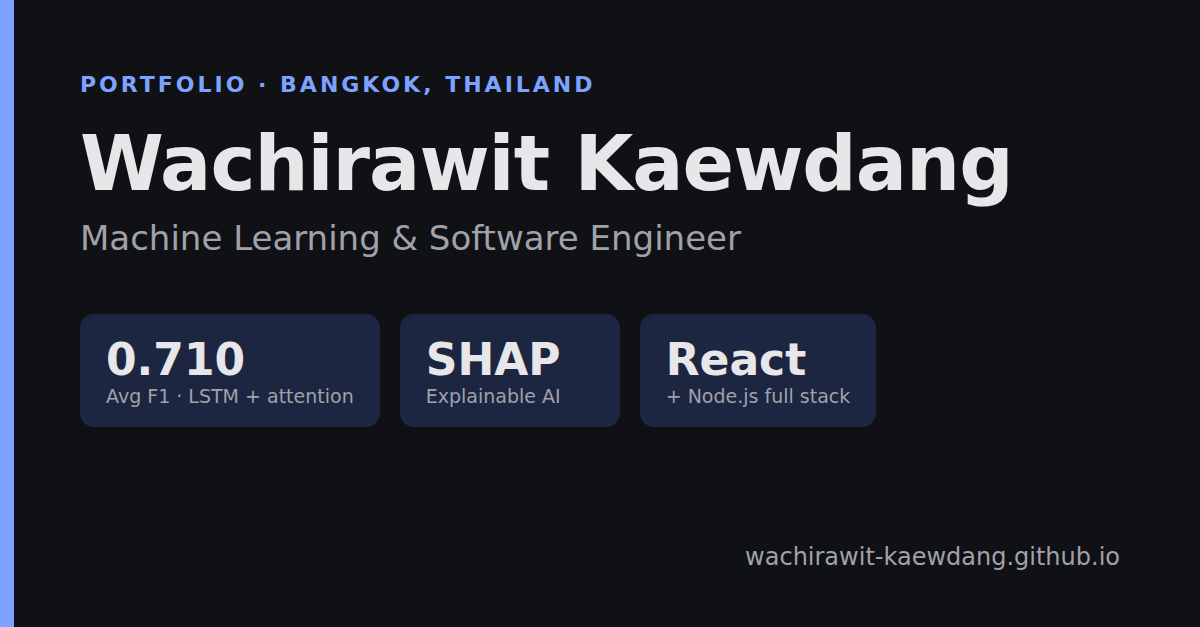
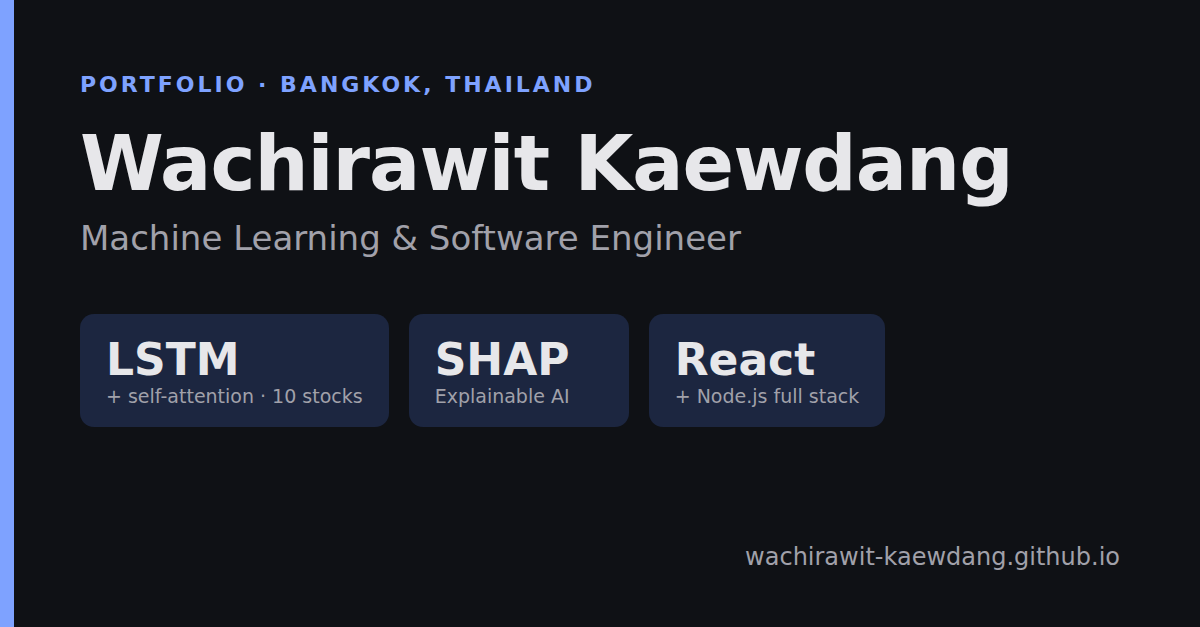
Add final 10-stock notebook and figures

Changed region(s): [[0.0925, 0.4848, 0.74, 0.697]]

diff --git a/src/ProjectCS403.jsx b/src/ProjectCS403.jsx
@@ -1,0 +1,139 @@
+// Case study page for the CS403 senior project, shown at #/cs403.
+const img = (name) => `${import.meta.env.BASE_URL}cs403/${name}.webp`;
+
+// Tuned-threshold results next to what "always predict up" would score.
+// For an always-up model, accuracy = share of up days and F1 = 2p / (1 + p).
+const baselineRows = [
+  { stock: 'JPM', acc: 0.608, f1: 0.756 },
+  { stock: 'UNH', acc: 0.600, f1: 0.750 },
+  { stock: 'GS', acc: 0.567, f1: 0.724 },
+  { stock: 'XOM', acc: 0.535, f1: 0.697 },
+  { stock: 'AMZN', acc: 0.494, f1: 0.661 },
+];
+const alwaysUpF1 = (p) => ((2 * p) / (1 + p)).toFixed(3);
+
+function Figure({ name, caption }) {
+  return (
+    <figure className="figure">
+      <a href={img(name)} target="_blank" rel="noreferrer">
+        <img src={img(name)} alt={caption} />
+      </a>
+      <figcaption>{caption}</figcaption>
+    </figure>
+  );
+}
+
+export default function ProjectCS403() {
+  return (
+    <main className="container case">
+      <a href="#projects" className="back">← Back to portfolio</a>
+
+      <p className="eyebrow">Senior project (CS403) · Thammasat University · 2-person team</p>
+      <h1>Stock Direction Prediction with Explainable AI</h1>
+      <p className="lead">
+        Can SHAP tell us something about a stock-prediction model that plain correlation can't? We
+        trained an LSTM with self-attention on 10 US stocks, explained it with SHAP, and compared
+        those explanations with Pearson correlation. We also checked honestly whether the model
+        beat a naive baseline.
+      </p>
+      <div className="actions">
+        <a className="btn primary" href="https://github.com/wachirawit-kaewdang/Project-CS403" target="_blank" rel="noreferrer">
+          Code on GitHub
+        </a>
+      </div>
+
+      <section className="case-section">
+        <h2>Setup</h2>
+        <dl className="facts">
+          <div><dt>Data</dt><dd>10 US stocks, 2 per sector (Tech, Healthcare, Energy, Finance, Consumer), Jan 2020 – Apr 2025</dd></div>
+          <div><dt>Features</dt><dd>27 daily features: returns, volatility, moving averages, RSI/MACD/Stochastic, volume/OBV, S&amp;P 500 context, bond yield</dd></div>
+          <div><dt>Target</dt><dd>Direction of the 3-day forward return (up / down), 80/20 time-ordered split</dd></div>
+          <div><dt>Model</dt><dd>LSTM (3 layers, hidden 128) + self-attention over a 60-day window, Focal Loss with class weights</dd></div>
+          <div><dt>Compared with</dt><dd>Random Forest, Logistic Regression, a soft-voting ensemble, and a version with VIX (market fear) features</dd></div>
+        </dl>
+      </section>
+
+      <section className="case-section">
+        <h2>Finding 1: SHAP and correlation disagree a lot</h2>
+        <p>
+          For every stock we ranked the 27 features twice: by absolute Pearson correlation with the
+          target, and by mean |SHAP| on the trained LSTM. The two rankings disagreed by roughly 5 to 12
+          positions per feature on average. Volume change, EMA26 and Volume/MA ratio moved the most.
+          Correlation only sees straight-line relationships with the target. SHAP shows what the
+          model actually uses, including non-linear effects.
+        </p>
+        <Figure name="rank_disagreement_summary" caption="Rank difference between correlation and SHAP for each feature and stock (click to enlarge)." />
+      </section>
+
+      <section className="case-section">
+        <h2>Finding 2: Bond yield matters to the model, but correlation misses it</h2>
+        <p>
+          Bond yield was in the model's SHAP top 5 for 6 of the 10 stocks, and was the #1 feature for
+          JPM and AMZN, even though correlation ranked it low for most of them. That fits financial
+          intuition: bank profits depend on interest rates, and growth stocks are sensitive to them.
+          Grouped by sector, the patterns differ too. Energy leans on the S&amp;P 500 trend, while
+          Healthcare and Technology lean on MACD.
+        </p>
+        <Figure name="sector_shap" caption="Average SHAP importance by sector." />
+      </section>
+
+      <section className="case-section">
+        <h2>Checking the results honestly</h2>
+        <p>
+          Our tuned model reported an average F1 of about 0.71, which looked good. When I checked it
+          against the simplest possible baseline, a model that always predicts "up", the numbers
+          matched. With the decision threshold tuned down to 0.30, the model was predicting "up" for
+          almost every day in a rising market.
+        </p>
+        <div className="table-wrap">
+          <table className="table">
+            <thead>
+              <tr><th>Stock</th><th>Accuracy</th><th>Our F1</th><th>F1 of "always up"</th></tr>
+            </thead>
+            <tbody>
+              {baselineRows.map((r) => (
+                <tr key={r.stock}>
+                  <td>{r.stock}</td><td>{r.acc.toFixed(3)}</td><td>{r.f1.toFixed(3)}</td><td>{alwaysUpF1(r.acc)}</td>
+                </tr>
+              ))}
+            </tbody>
+          </table>
+        </div>
+        <p>
+          Threshold-free metrics tell the same story: ROC-AUC averaged about 0.57 across the 10 stocks,
+          only a little better than random (0.5). Predicting 3-day direction from technical
+          indicators alone is close to a coin flip. That's an honest result, not a failure of the
+          explainability work: SHAP still shows what the model relied on.
+        </p>
+        <Figure name="final_summary" caption="Accuracy and F1 per stock. Accuracy stays close to 0.5–0.6 even where F1 looks high." />
+      </section>
+
+      <section className="case-section">
+        <h2>What I'd do differently</h2>
+        <ul className="points">
+          <li>Always report a naive baseline ("always up", majority class) next to every metric.</li>
+          <li>Tune the decision threshold and early stopping on a separate validation set, not the test set.</li>
+          <li>Fit the feature scaler on the training data only, to avoid leaking test-period statistics.</li>
+          <li>Use walk-forward validation across several time windows instead of one 80/20 split.</li>
+          <li>Lead with threshold-free metrics such as ROC-AUC for noisy targets like short-term returns.</li>
+        </ul>
+      </section>
+
+      <section className="case-section">
+        <h2>My part</h2>
+        <p>
+          I collected and prepared the training data, and designed the training
+          approach and model architecture. My teammate Tumrong Saechoen designed the analysis
+          methodology and the VIX market-sentiment component.
+        </p>
+        <ul className="tags">
+          {['Python', 'PyTorch', 'SHAP', 'scikit-learn', 'pandas', 'NumPy', 'yfinance'].map((t) => (
+            <li key={t}>{t}</li>
+          ))}
+        </ul>
+      </section>
+
+      <a href="#projects" className="back">← Back to portfolio</a>
+    </main>
+  );
+}

diff --git a/src/data.js b/src/data.js
@@ -18,27 +18,28 @@ export const profile = {
 
 export const projects = [
   {
-    title: 'Stock Price Direction Prediction with Explainable AI',
+    title: 'Stock Direction Prediction with Explainable AI',
     context: 'Senior project (CS403) · 2-person team',
     featured: true,
     summary:
       'An LSTM with self-attention that predicts 3-day price direction for 10 US stocks across ' +
-      '5 sectors — and a SHAP analysis that checks whether the model reasons the way a financial ' +
-      'analyst would.',
+      '5 sectors, used to test whether SHAP explains a model better than plain correlation. ' +
+      'It also includes an honest check against a naive baseline.',
     metrics: [
-      { value: '0.710', label: 'Average F1' },
-      { value: '0.754', label: 'Best F1 (JPM)' },
-      { value: '27', label: 'Engineered features' },
       { value: '10', label: 'Stocks · 5 sectors' },
+      { value: '27', label: 'Engineered features' },
+      { value: '3', label: 'Models compared' },
+      { value: '6 / 10', label: 'Stocks with bond yield in SHAP top 5' },
     ],
     points: [
-      'LSTM + self-attention (3 layers, hidden 128) trained with Focal Loss for class imbalance.',
-      'Benchmarked against Random Forest and Logistic Regression; an LSTM + RF + LR majority-vote ensemble became the final model.',
-      'SHAP (KernelExplainer) attribution compared with Pearson correlation, including rank-disagreement and sector-level analysis.',
-      'Fundamental data (P/E, EPS) was tested and deliberately excluded: quarterly values fill-forwarded into a daily series added noise, not signal.',
+      'LSTM + self-attention (3 layers, hidden 128) with Focal Loss, compared with Random Forest, Logistic Regression and a soft-voting ensemble.',
+      'SHAP and Pearson correlation ranked features very differently, by roughly 5 to 12 positions per feature on average.',
+      'SHAP surfaced bond yield as a key driver (#1 for JPM and AMZN) that correlation ranked low.',
+      'Baseline check: the tuned model matched an "always predict up" baseline, so I report it honestly, along with what I would change.',
       'My part: data collection and preparation, and the training approach and model architecture.',
     ],
     tech: ['Python', 'PyTorch', 'SHAP', 'scikit-learn', 'pandas', 'NumPy'],
+    caseStudy: '#/cs403',
     link: 'https://github.com/wachirawit-kaewdang/Project-CS403',
   },
   {

diff --git a/src/App.jsx b/src/App.jsx
@@ -1,4 +1,6 @@
+import { useEffect, useState } from 'react';
 import { profile, projects, skills, education, languages } from './data.js';
+import ProjectCS403 from './ProjectCS403.jsx';
 
 // Vite serves files from /public at the site root; BASE_URL keeps links correct
 // whether the site is deployed at "/" or under a sub-path.
@@ -82,11 +84,16 @@ function ProjectCard({ project }) {
 
       <Tags items={project.tech} />
 
-      {project.link && (
-        <a className="link" href={project.link} target="_blank" rel="noreferrer">
-          View code on GitHub →
-        </a>
-      )}
+      <div className="card-links">
+        {project.caseStudy && (
+          <a className="link" href={project.caseStudy}>Read the case study →</a>
+        )}
+        {project.link && (
+          <a className="link" href={project.link} target="_blank" rel="noreferrer">
+            Code on GitHub →
+          </a>
+        )}
+      </div>
     </article>
   );
 }
@@ -154,17 +161,45 @@ function Contact() {
   );
 }
 
+// Tiny hash router: "#/cs403" shows the case study, anything else shows the home page.
+// Hash URLs work on GitHub Pages without any server configuration.
+function useHash() {
+  const [hash, setHash] = useState(window.location.hash);
+  useEffect(() => {
+    const onChange = () => setHash(window.location.hash);
+    window.addEventListener('hashchange', onChange);
+    return () => window.removeEventListener('hashchange', onChange);
+  }, []);
+  return hash;
+}
+
 export default function App() {
+  const hash = useHash();
+  const isCaseStudy = hash === '#/cs403';
+
+  // After switching pages, jump to the right place.
+  useEffect(() => {
+    if (isCaseStudy) {
+      window.scrollTo(0, 0);
+    } else if (hash.length > 1) {
+      document.getElementById(hash.slice(1))?.scrollIntoView();
+    }
+  }, [hash, isCaseStudy]);
+
   return (
     <>
       <Header />
-      <main>
-        <Hero />
-        <Projects />
-        <Skills />
-        <Background />
-        <Contact />
-      </main>
+      {isCaseStudy ? (
+        <ProjectCS403 />
+      ) : (
+        <main>
+          <Hero />
+          <Projects />
+          <Skills />
+          <Background />
+          <Contact />
+        </main>
+      )}
       <footer className="container footer">
         © {new Date().getFullYear()} {profile.name} · Built with React + Vite
       </footer>

diff --git a/src/index.css b/src/index.css
@@ -132,3 +132,34 @@ p { margin: 0 0 0.75rem; }
   .nav nav { gap: 0.9rem; }
   .section { padding: 2.25rem 16px; }
 }
+
+/* Card links */
+.card-links { margin-top: auto; padding-top: 0.5rem; display: flex; flex-wrap: wrap; gap: 1.25rem; }
+.card-links .link { margin-top: 0; padding-top: 0; }
+
+/* Case study page */
+.case { padding-top: 2.5rem; padding-bottom: 2rem; max-width: 820px; }
+.case h1 { margin-top: 0.5rem; }
+.back { display: inline-block; font-weight: 600; text-decoration: none; margin: 0.5rem 0 1.5rem; }
+.case-section { padding-top: 2.25rem; }
+.case-section p { max-width: 720px; }
+.facts { display: grid; gap: 0.75rem; margin: 0; }
+.facts div { display: grid; grid-template-columns: 130px 1fr; gap: 1rem; padding-bottom: 0.75rem; border-bottom: 1px solid var(--border); }
+.facts dt { font-weight: 700; }
+.facts dd { margin: 0; color: var(--muted); }
+.figure { margin: 1.25rem 0 0; }
+.figure img { width: 100%; height: auto; display: block; border-radius: 10px; border: 1px solid var(--border); background: #fff; }
+.figure figcaption { font-size: 0.85rem; color: var(--muted); margin-top: 0.5rem; }
+.table-wrap { overflow-x: auto; margin: 1rem 0 1.25rem; }
+.table { border-collapse: collapse; width: 100%; font-size: 0.95rem; }
+.table th, .table td { text-align: left; padding: 0.55rem 0.75rem; border-bottom: 1px solid var(--border); }
+.table th { font-size: 0.8rem; text-transform: uppercase; letter-spacing: 0.04em; color: var(--muted); }
+.table td:nth-child(3), .table td:nth-child(4) { font-variant-numeric: tabular-nums; font-weight: 600; }
+
+@media (max-width: 700px) {
+  .facts div { grid-template-columns: 1fr; gap: 0.2rem; }
+  .case { padding-top: 1.5rem; }
+}
+
+/* Keep section headings clear of the sticky header when jumping to them */
+section[id] { scroll-margin-top: 64px; }

diff --git a/index.html b/index.html
@@ -6,7 +6,7 @@
     <meta name="viewport" content="width=device-width, initial-scale=1.0" />
     <meta name="description" content="Wachirawit Kaewdang — Machine Learning & Software Engineer in Bangkok. Explainable time-series ML and full-stack React / Node.js." />
     <meta property="og:title" content="Wachirawit Kaewdang — ML & Software Engineer" />
-    <meta property="og:description" content="Portfolio of a Bangkok-based ML &amp; software engineer: an explainable LSTM stock-direction model (SHAP, avg F1 0.710), full-stack React/Node.js work, and more." />
+    <meta property="og:description" content="Portfolio of a Bangkok-based ML &amp; software engineer: explainable AI for stock prediction (LSTM + SHAP vs correlation), full-stack React/Node.js work, and more." />
     <meta property="og:type" content="website" />
     <meta property="og:url" content="https://wachirawit-kaewdang.github.io/" />
     <meta property="og:image" content="https://wachirawit-kaewdang.github.io/og-image.png" />
